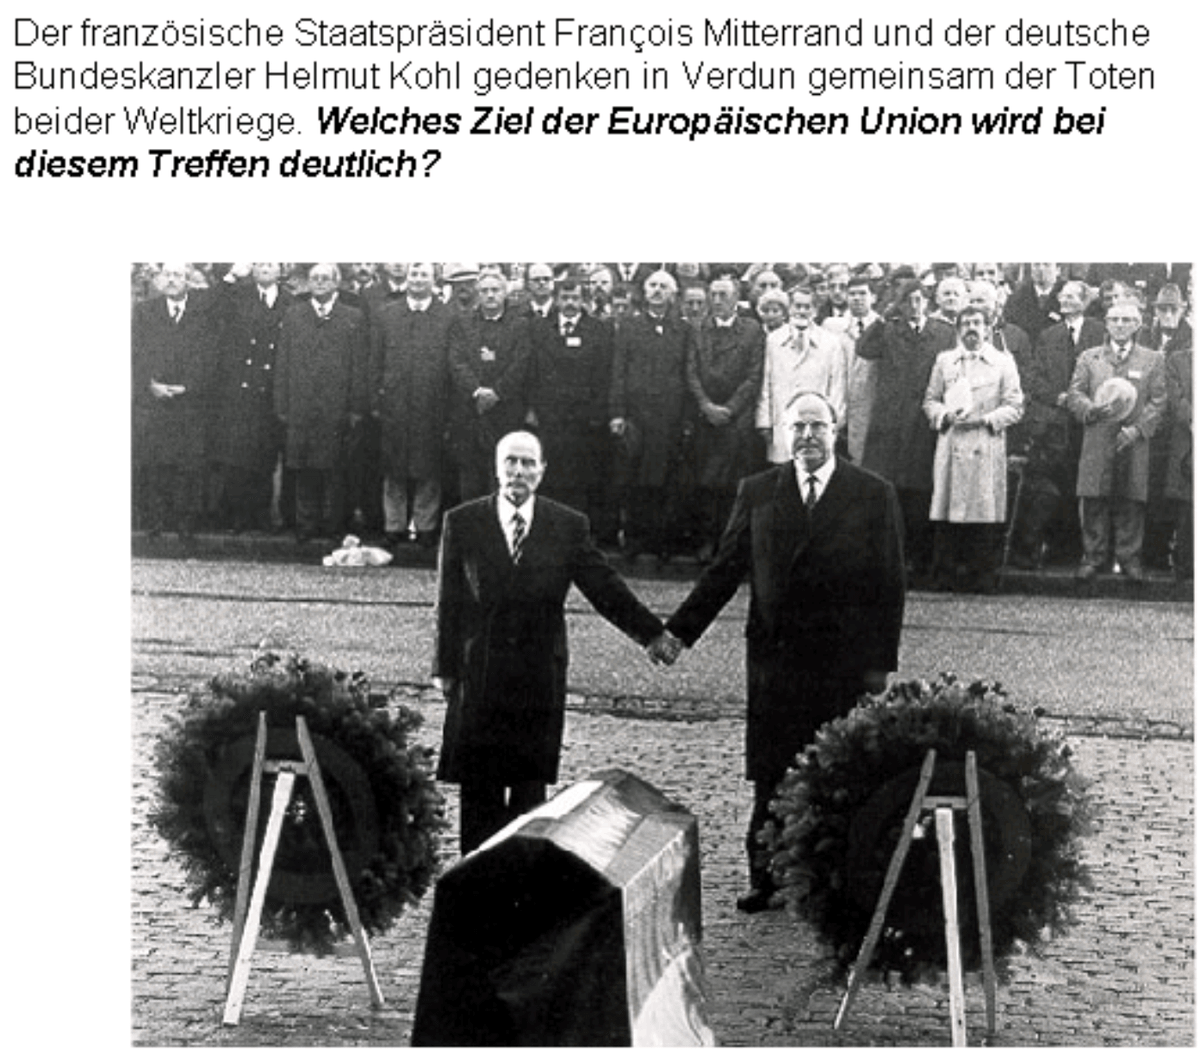
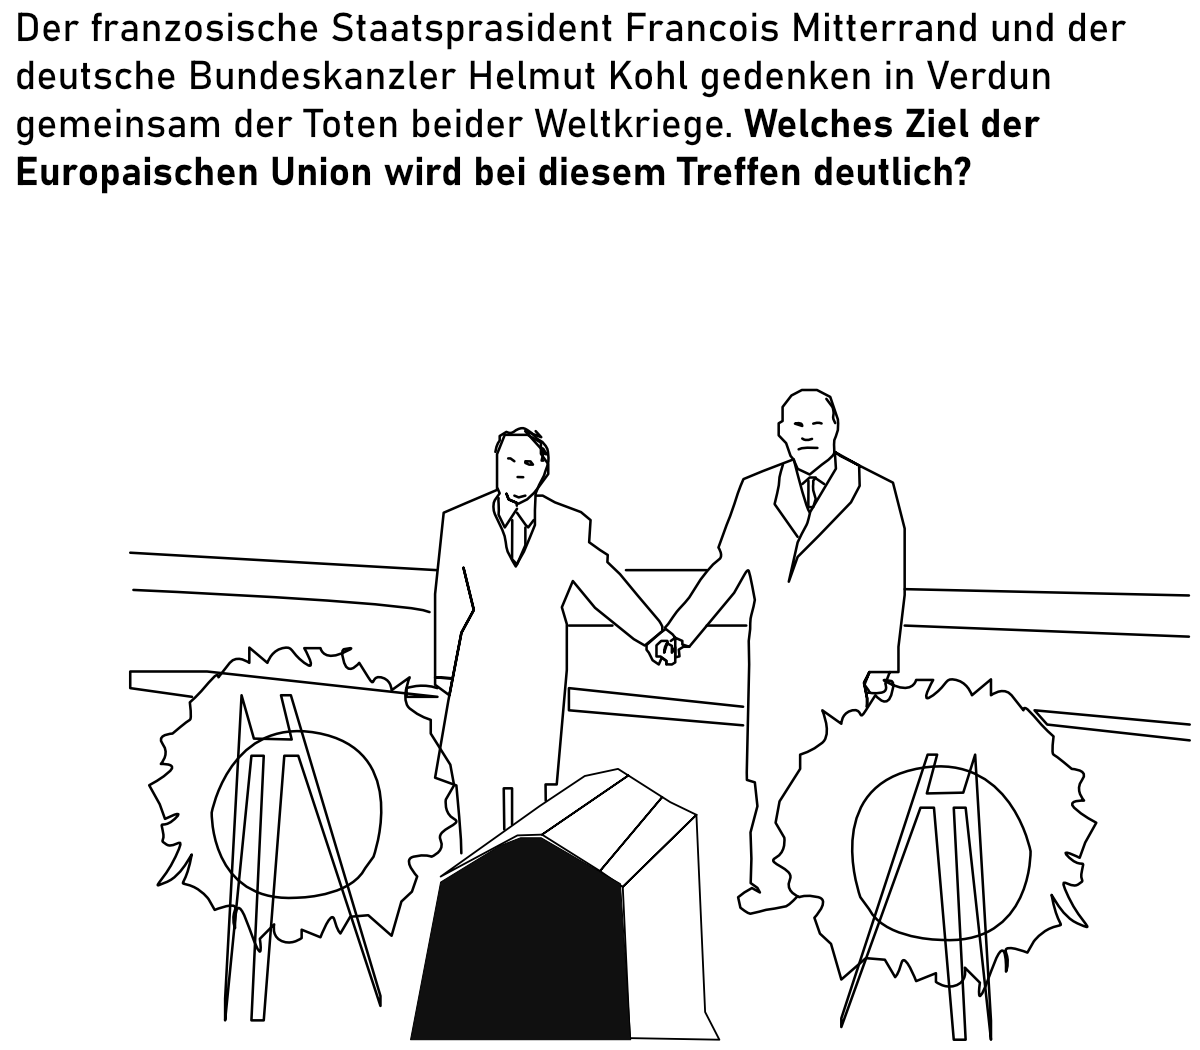
Replace B235 image with corrected redraw

diff --git a/README.md b/README.md
@@ -38,7 +38,7 @@ No web server is required; `data/questions.js`, `data/vocabulary.js` and `data/i
[1 lines of base64/hex data omitted]
   <https://www.bamf.de/SharedDocs/Anlagen/DE/Integration/Einbuergerung/gesamtfragenkatalog-lebenindeutschland.html?nn=284310>
 - **Answers, English translations, explanations and images**: [abdullahbutt/leben-in-deutschland-test](https://github.com/abdullahbutt/leben-in-deutschland-test), version 2026-10-28. **The German question and option wording is taken verbatim from the official BAMF PDF**; the dataset supplies the answer key, English translations, explanations and images. The translations and explanations are licensed under **CC BY-NC 4.0** (attribution, non-commercial use). `data/overrides.json` contains manual corrections for the few items where the dataset described a different paraphrase (e.g. B232, B247, HB02, SN07).
-- **B021, B055, B070, B130, B176, B181, B187, B209, B216 and B226 images**: `data/images/21.png`, `data/images/55.png`, `data/images/70.png`, `data/images/130.png`, `data/images/176.png`, `data/images/181.png`, `data/images/187.png`, `data/images/209.png`, `data/images/216.png` and `data/images/226.png` are redrawn replacements added for this project; the remaining images come from the dataset.
+- **B021, B055, B070, B130, B176, B181, B187, B209, B216, B226 and B235 images**: `data/images/21.png`, `data/images/55.png`, `data/images/70.png`, `data/images/130.png`, `data/images/176.png`, `data/images/181.png`, `data/images/187.png`, `data/images/209.png`, `data/images/216.png`, `data/images/226.png` and `data/images/235.png` are redrawn replacements added for this project; the remaining images come from the dataset.
 - This is an independent learning app, not an official BAMF product. Use is intended for personal, non-commercial exam preparation.
 
 ## Project layout
